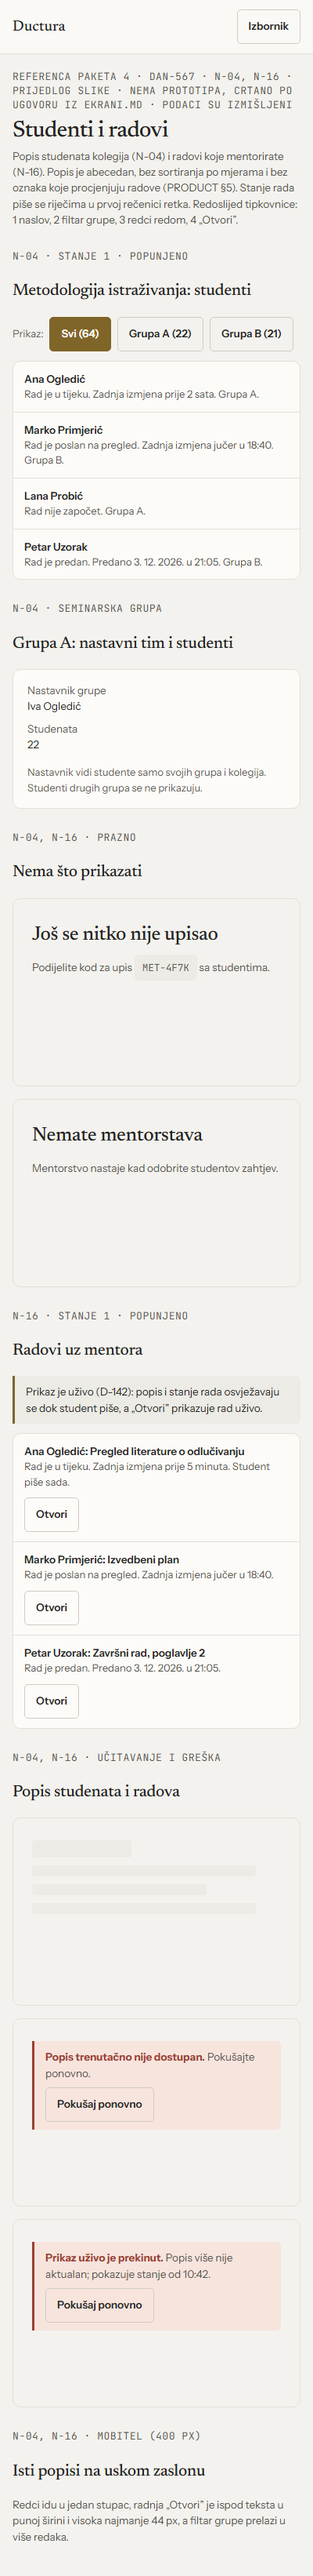
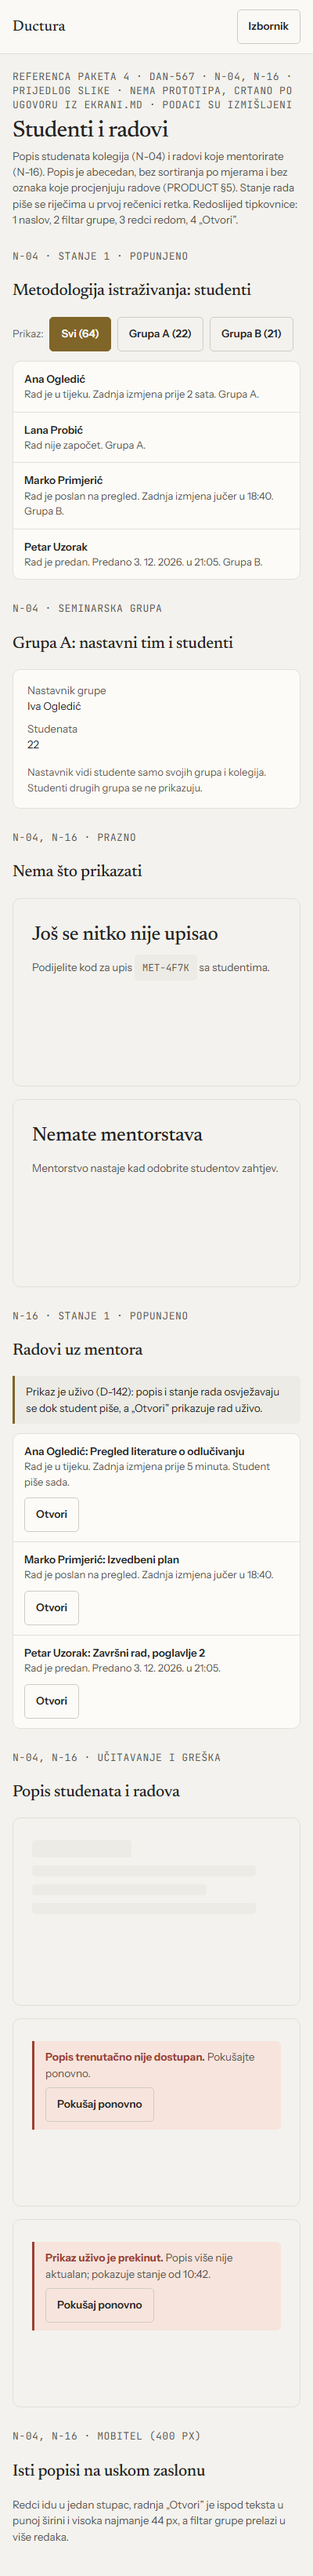
docs: fix N-02/N-03 publish error wording and alphabetical N-04 list (DAN-567)
Claude-Session: https://claude.ai/code/session_01N1HowT4JEmWPus261RPqtk

Changed region(s): [[0.09, 0.1553, 0.33, 0.2174], [0.36, 0.1864, 0.42, 0.2174]]

diff --git a/docs/design/ductura/m2-nastavnik-reference/n04-n16-studenti-i-radovi.html b/docs/design/ductura/m2-nastavnik-reference/n04-n16-studenti-i-radovi.html
@@ -33,8 +33,8 @@
       </div>
       <div class="list">
         <div class="item"><div><span class="who">Ana Ogledić</span><div class="facts">Rad je u tijeku. Zadnja izmjena prije 2 sata. Grupa A.</div></div></div>
-        <div class="item"><div><span class="who">Marko Primjerić</span><div class="facts">Rad je poslan na pregled. Zadnja izmjena jučer u 18:40. Grupa B.</div></div></div>
         <div class="item"><div><span class="who">Lana Probić</span><div class="facts">Rad nije započet. Grupa A.</div></div></div>
+        <div class="item"><div><span class="who">Marko Primjerić</span><div class="facts">Rad je poslan na pregled. Zadnja izmjena jučer u 18:40. Grupa B.</div></div></div>
         <div class="item"><div><span class="who">Petar Uzorak</span><div class="facts">Rad je predan. Predano 3. 12. 2026. u 21:05. Grupa B.</div></div></div>
       </div>
     </section>

diff --git a/docs/design/ductura/m2-nastavnik-reference/n02-n03-kolegij-i-zadatak.html b/docs/design/ductura/m2-nastavnik-reference/n02-n03-kolegij-i-zadatak.html
@@ -98,7 +98,7 @@
       <h2 id="h3-gre">Spremanje zadatka</h2>
       <div class="grid">
         <div class="frame" aria-busy="true"><div class="sk" role="status"><span class="sr">Spremanje zadatka…</span><i class="w1"></i><i class="w2"></i><i class="w3"></i></div></div>
-        <div class="frame"><p class="alert" role="alert"><strong>Zadatak nije objavljen.</strong> Veza se prekinula, pa ne znamo je li objava prošla. Provjerite stanje prije ponovnog pokušaja. <a class="btn secondary" href="#">Provjeri stanje</a></p></div>
+        <div class="frame"><p class="alert" role="alert"><strong>Ishod objave nije poznat.</strong> Veza se prekinula, pa ne znamo je li objava prošla. Provjerite stanje prije ponovnog pokušaja. <a class="btn secondary" href="#">Provjeri stanje</a></p></div>
       </div>
     </section>
 
